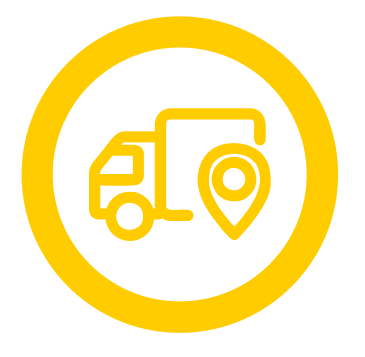
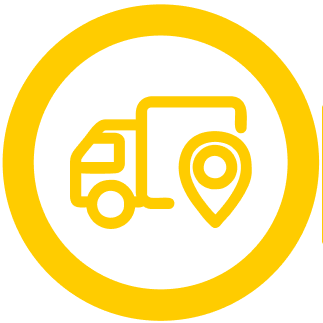
Ajustando ícones

diff --git a/styles/css/contato/vtex.flex-layout.css b/styles/css/contato/vtex.flex-layout.css
@@ -1,0 +1,5 @@
+.flexCol--section-title-about {
+    padding: 0;
+    margin-left: 0;
+    margin-right: 0;
+}

diff --git a/styles/css/contato/vtex.rich-text.css b/styles/css/contato/vtex.rich-text.css
@@ -1,3 +1,4 @@
 .container--title-fale-conosco {
     margin-top: 25px;
+    margin-bottom: 20px;
 }

diff --git a/styles/css/contato/vtex.store-components.css b/styles/css/contato/vtex.store-components.css
@@ -1,0 +1,5 @@
+.imageElement--img-contato {
+    max-width: 80px;
+    max-height: 80px;
+
+}
